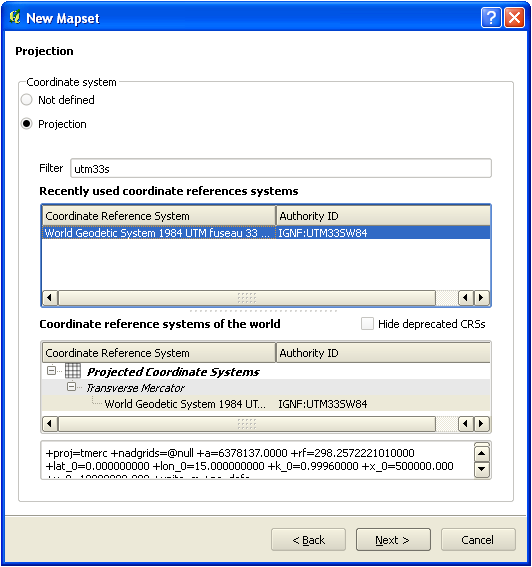
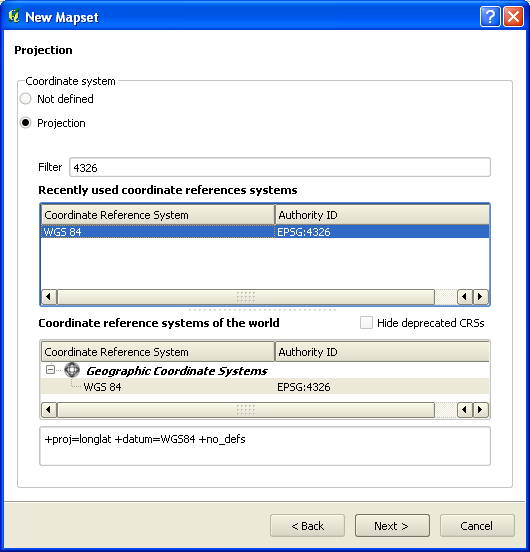
grass setup

Changed region(s): [[0.0, 0.0, 1.0, 1.0]]

diff --git a/grass/grass_setup.rst b/grass/grass_setup.rst
@@ -43,7 +43,7 @@ geographic area you'll be working in. Call it :kbd:`South_Africa`:
 
 .. image:: ../_static/grass/006.png
 
-We're working with :kbd:`UTM 33S / WGS 84`, so search for and select this CRS:
+We'll be working with :kbd:`WGS 84`, so search for and select this CRS:
 
 .. image:: ../_static/grass/007.png
 
@@ -70,8 +70,8 @@ Click :guilabel:`Finish`, then click :guilabel:`OK` on the success dialog:
 
 You'll now have a blank map. To load data into GRASS, you need to follow a
 two-step process. First, load data into QGIS as usual. Use the
-:kbd:`roads_33S.shp` dataset (found under :kbd:`exercise_data/projected_data/`)
-for now. As soon as it's loaded, click on the :guilabel:`GRASS Tools` button:
+:kbd:`streets.shp` dataset (found under :kbd:`exercise_data/`) for now. As soon
+as it's loaded, click on the :guilabel:`GRASS Tools` button:
 
 .. image:: ../_static/grass/013.png
 
@@ -89,8 +89,8 @@ Once you've found this tool, clicking on it will bring up the tool itself:
 
 .. image:: ../_static/grass/014.png
 
-Set the loaded layer to :guilabel:`roads_33S` and its GRASS version's name to
-:kbd:`g_roads` to prevent confusion.
+Set the loaded layer to :guilabel:`streets` and its GRASS version's name to
+:kbd:`g_streets` to prevent confusion.
 
 .. image:: ../_static/grass/015.png
 
@@ -110,6 +110,22 @@ map.
 |basic| |FA| Loading Raster Data into GRASS
 -------------------------------------------------------------------------------
 
+Recall that our DEM is in the Projected CRS :kbd:`UTM 33S / WGS 84`, but our
+GRASS project is in the Geographic CRS :kbd:`WGS 84`. So let's reproject the
+DEM first. To start, load the :kbd:`srtm_41_19.tif` dataset (found under
+:kbd:`exercise_data/raster/SRTM/`) into the QGIS map as usual, using QGIS'
+:guilabel:`Add Raster Layer` tool. Then reproject it using GDAL Warp tool
+(:menuselection:`Raster --> Projections --> Warp (Reproject)`), setting it up
+as shown:
+
+.. image:: ../_static/grass/017.png
+
+Save the raster under the same folder as the original, but with the file name
+:kbd:`DEM_WGS84.tif`. Once it appears in your map, remove the
+:kbd:`srtm_41_19.tif` dataset from your :guilabel:`Layers list`.
+
+Now that it's reprojected, you can load it into your GRASS database.
+
 Open the :guilabel:`GRASS Tools` dialog again and click on the
 :guilabel:`Modules List` tab.
 
@@ -119,14 +135,16 @@ Search for :kbd:`r.in.gdal.qgis`:
 
 Which gives you this tool:
 
-.. image:: ../_static/grass/017.png
+.. image:: ../_static/grass/018.png
 
-Set it up as shown (inut layer is :guilabel:`srtm_41_19.tif`, output is
+Set it up as shown (input layer is :guilabel:`DEM_WGS84`, output is
 :kbd:`g_dem`), then click :guilabel:`Run`. When the process is done, click
 :guilabel:`View output`, then :guilabel:`Close` the current tab, and then
 :guilabel:`Close` the whole dialog.
 
-You may now remove the original :guilabel:`srtm_41_19` layer.
+.. image:: ../_static/grass/019.png
+
+You may now remove the original :guilabel:`DEM_WGS84` layer.
 
 |IC|
 -------------------------------------------------------------------------------

diff --git a/grass/index.rst b/grass/index.rst
@@ -14,3 +14,4 @@ Contents:
    :numbered:
    
    grass_setup
+   grass_tools
